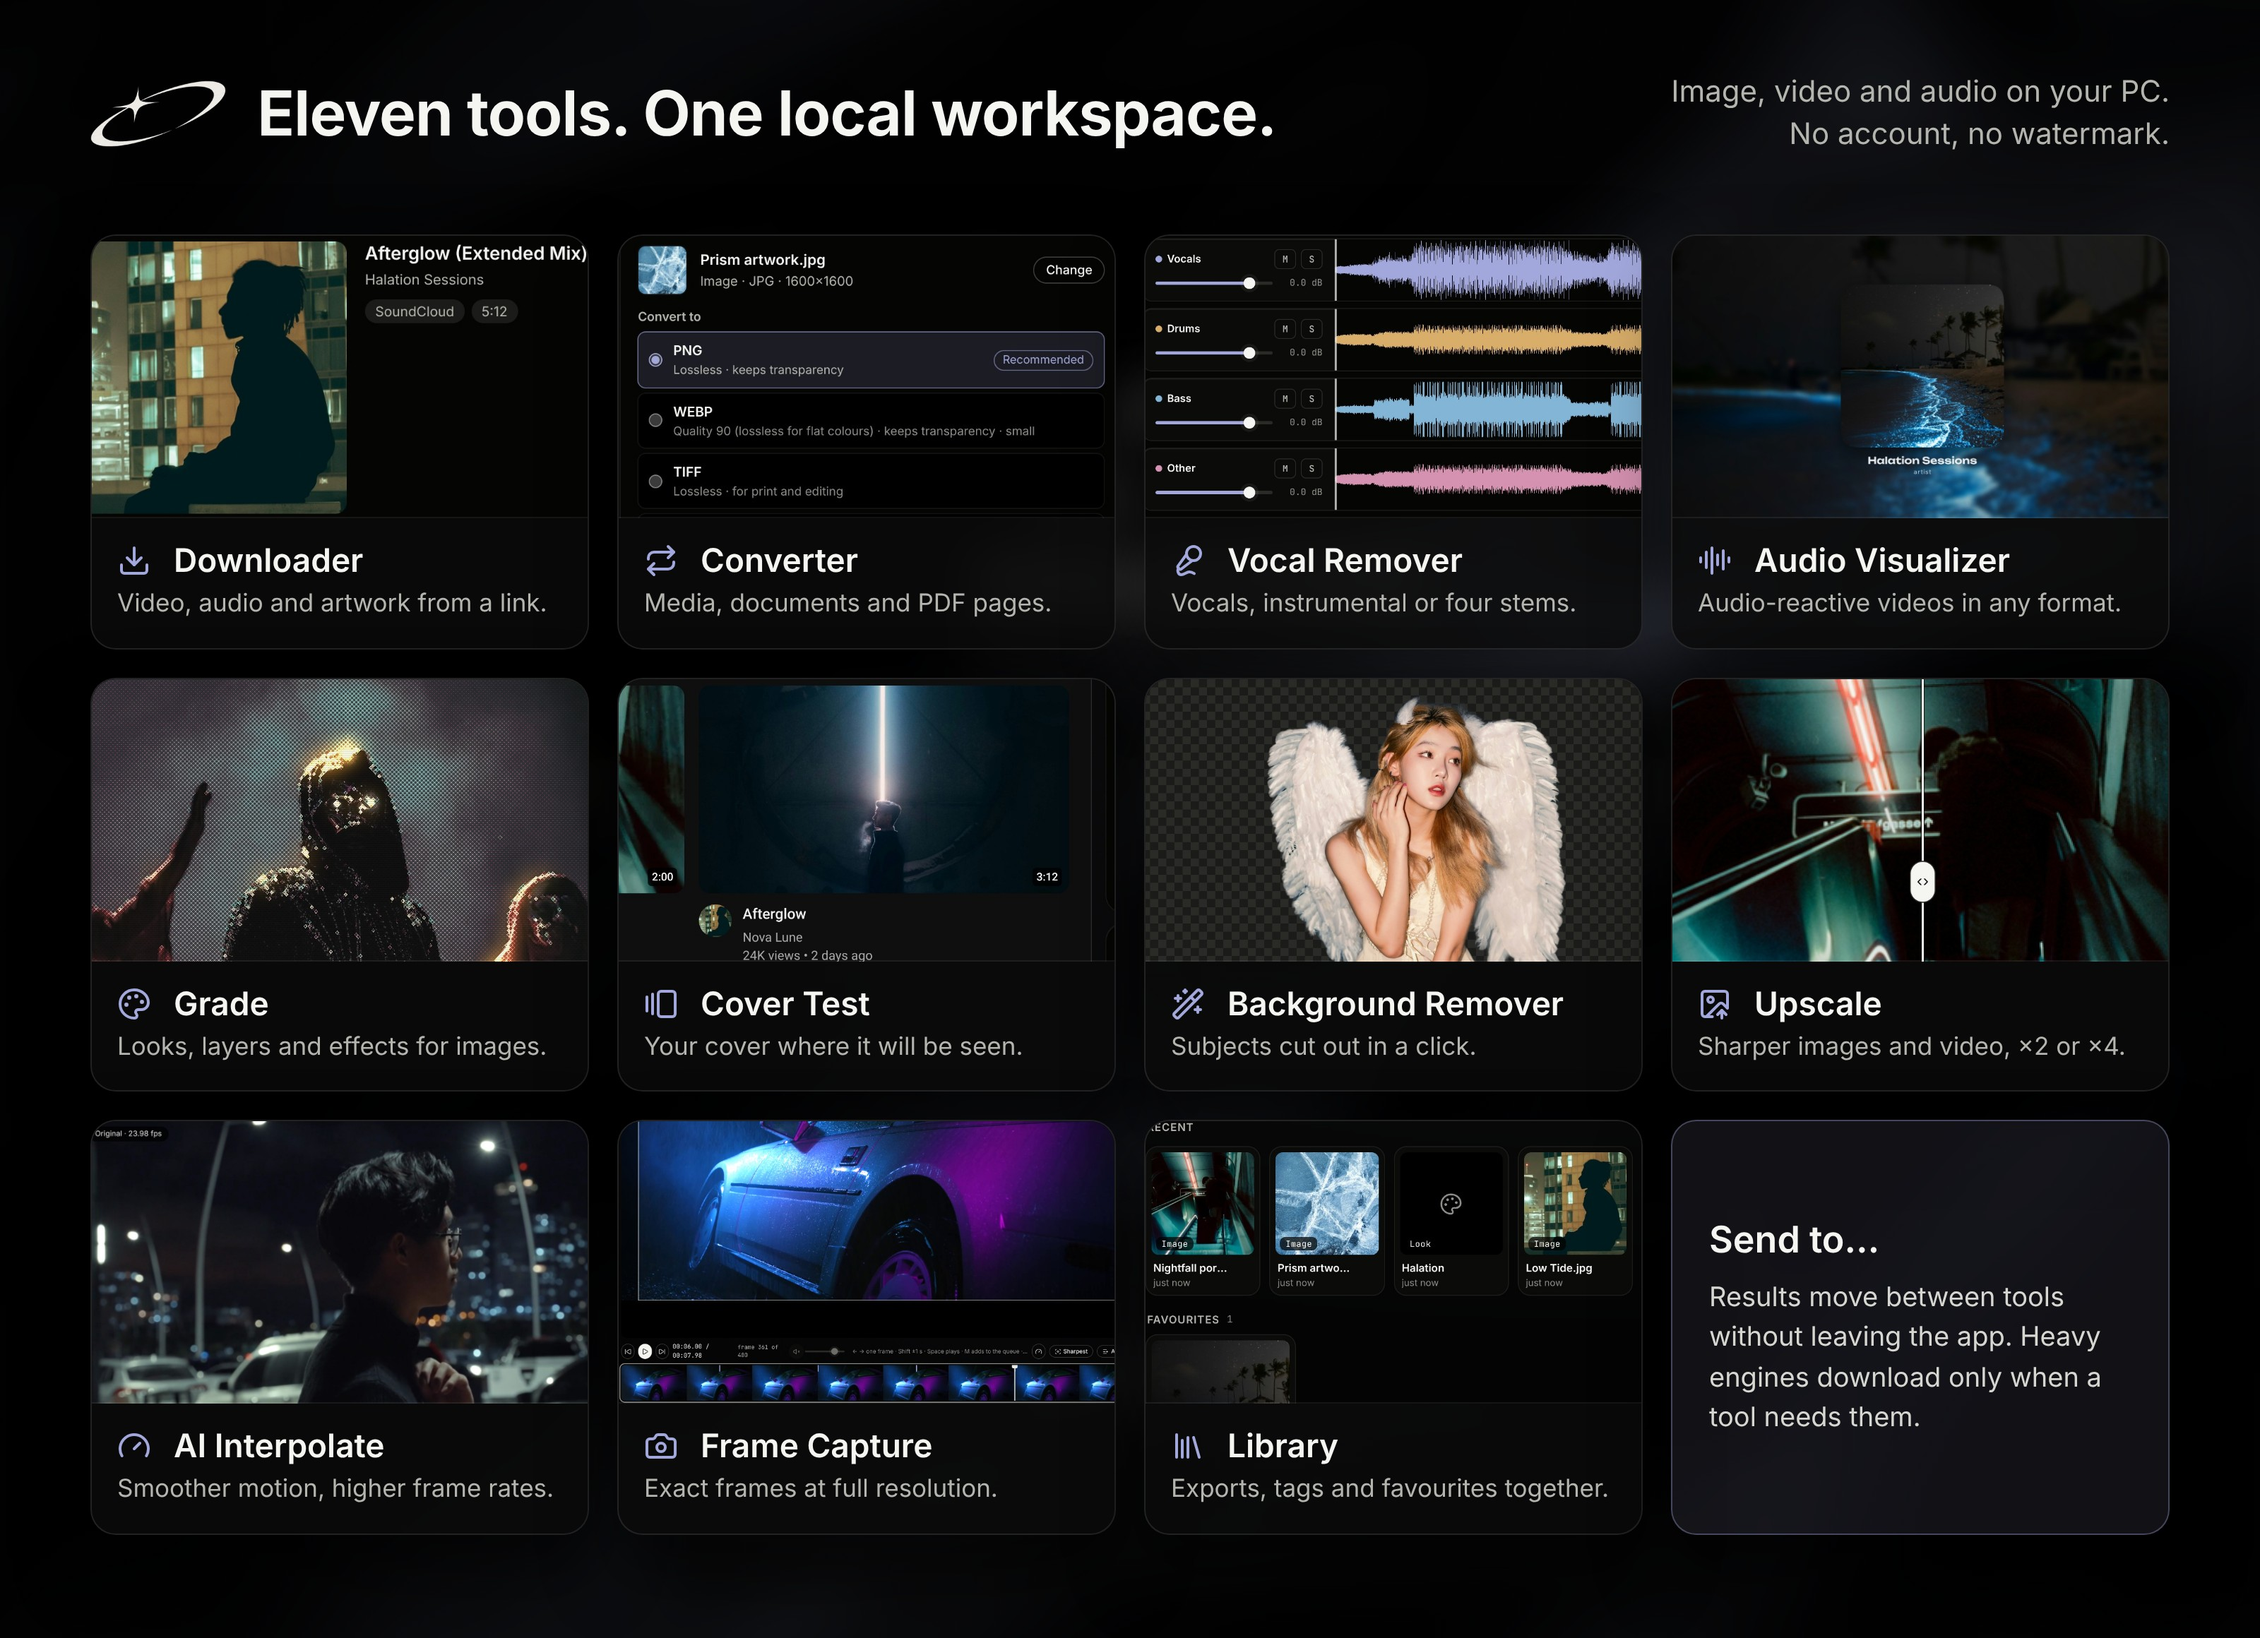
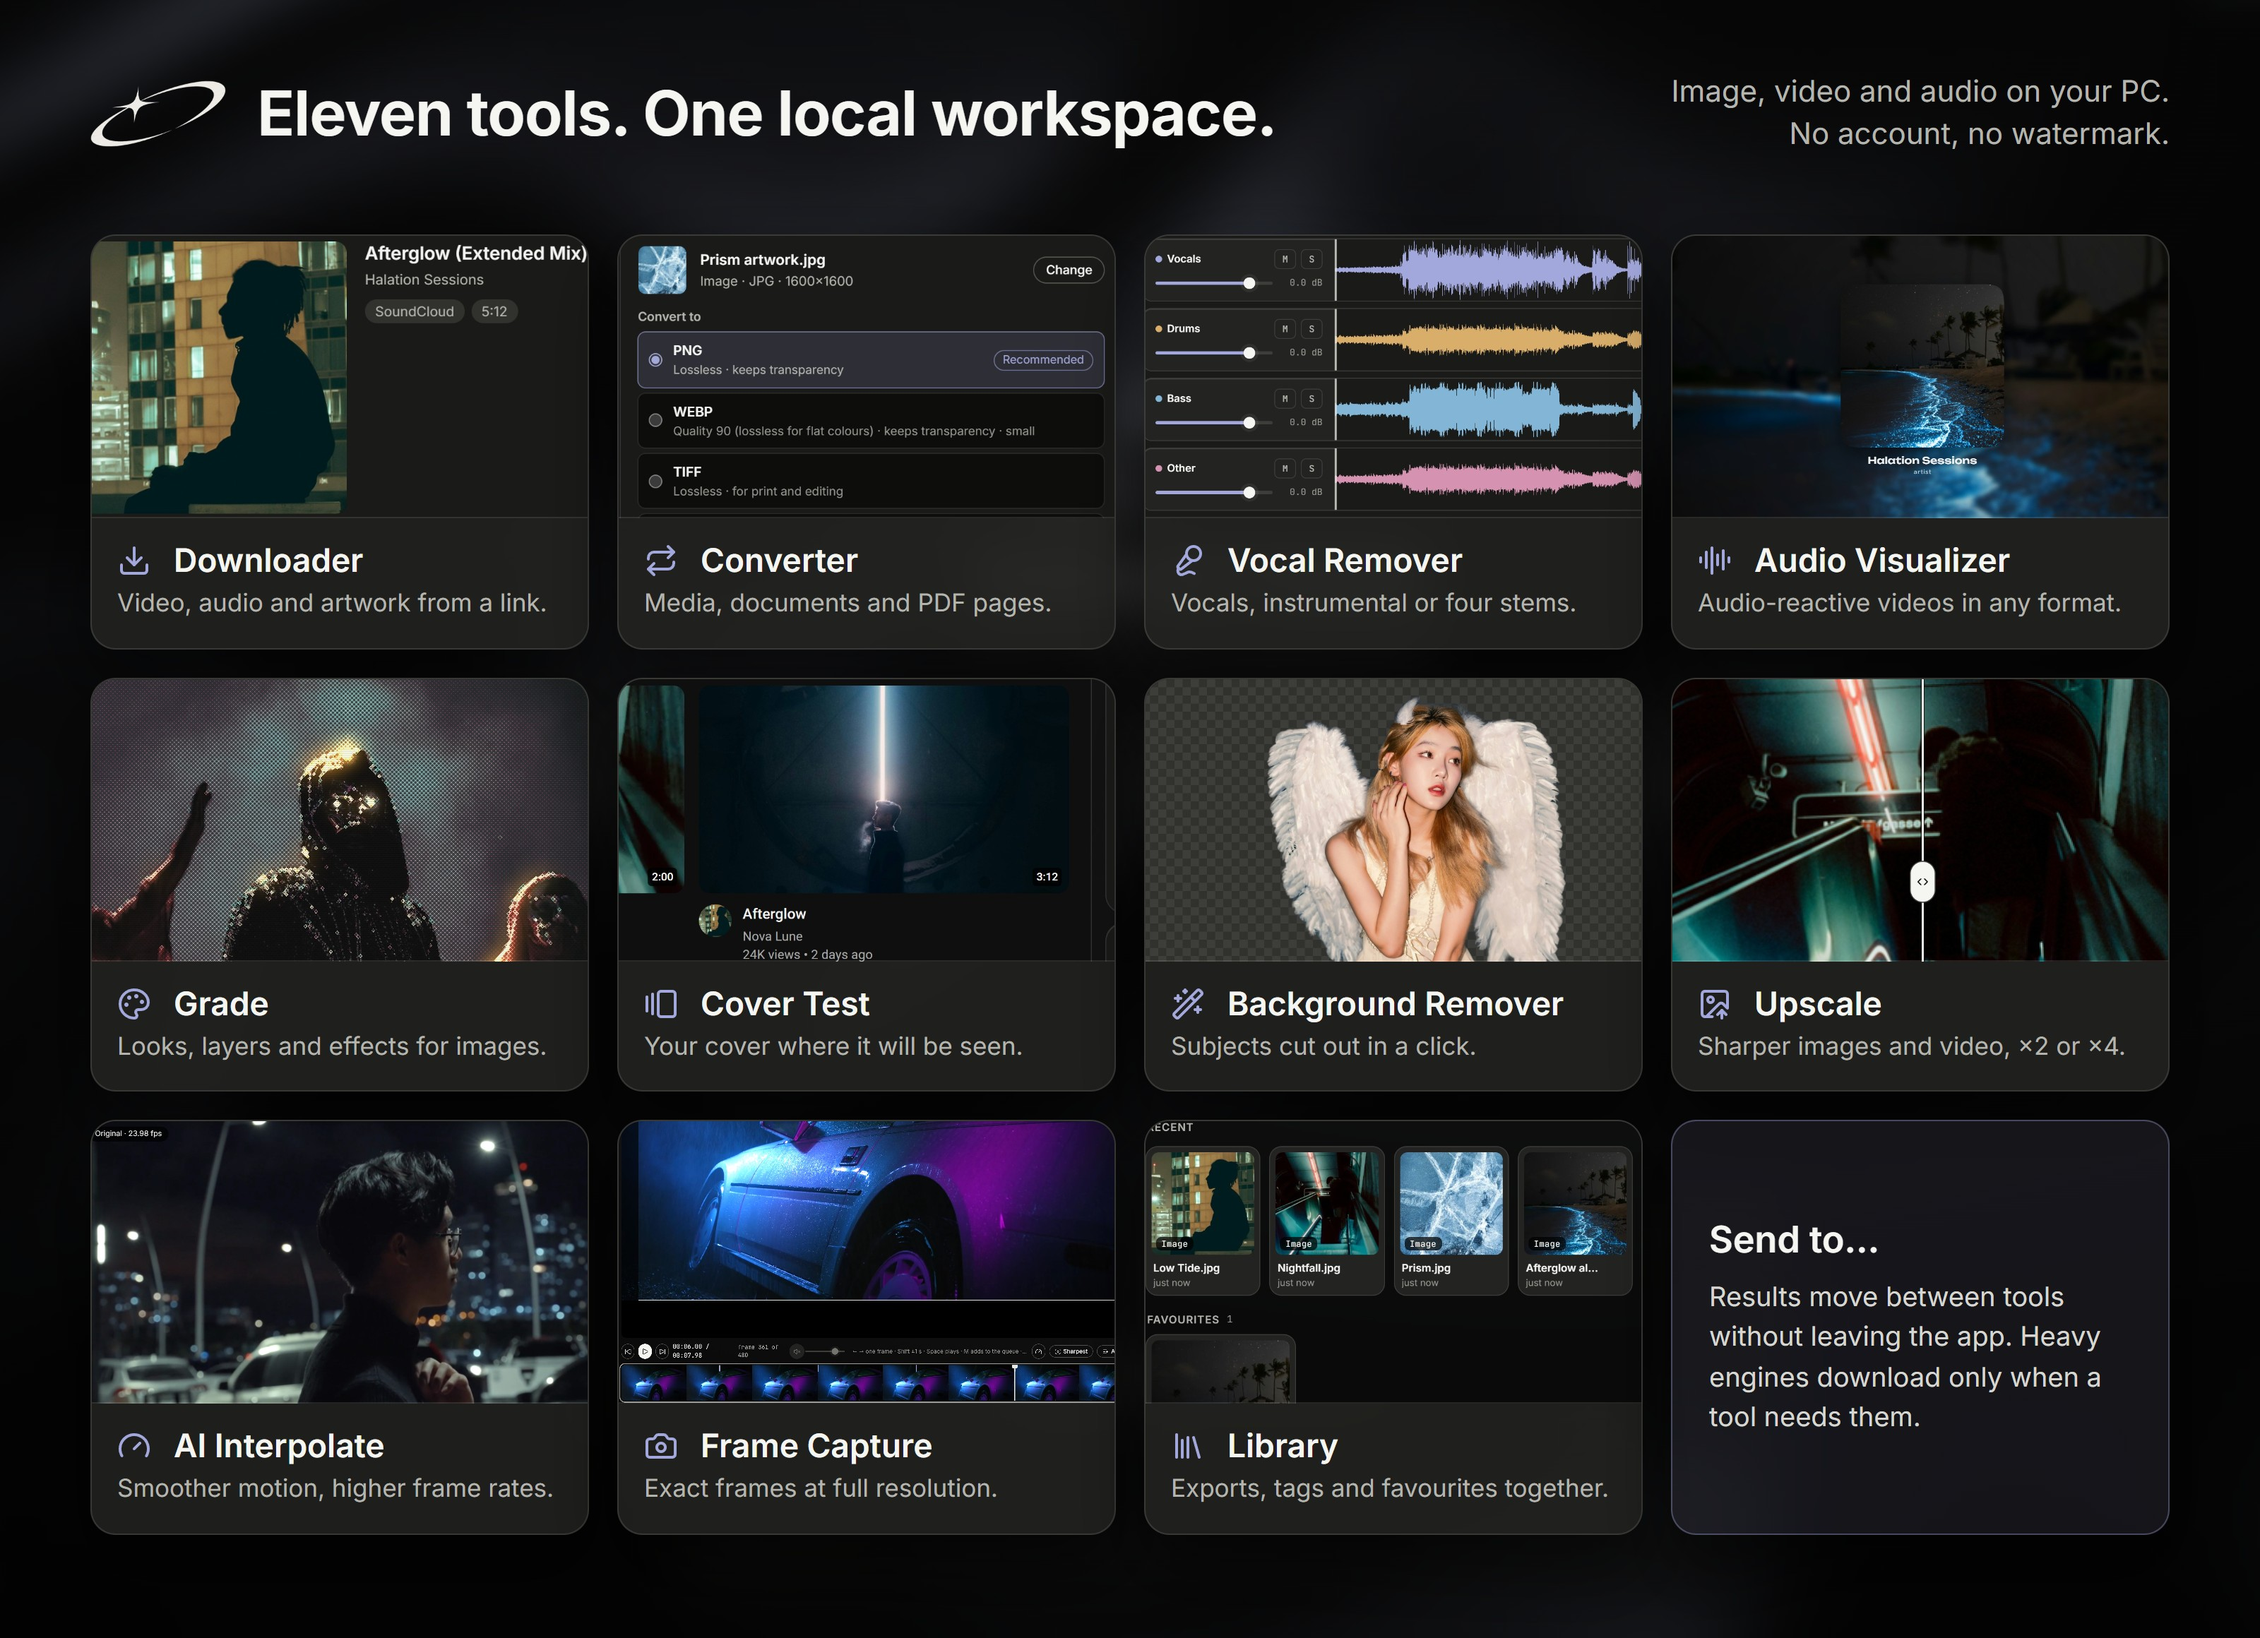
README showcase and promo in the new palette
The showcase tiles and cards take the reworked surfaces (#1a1a19 bubbles, #232321 cards, the .11 border); both images rebuilt from the new captures.

diff --git a/app/scripts/readme-showcase.js b/app/scripts/readme-showcase.js
@@ -43,7 +43,7 @@ const page = (W, H, body, css) => `<!doctype html><meta charset="utf-8"><style>
 header{position:absolute;left:64px;right:64px;top:50px;display:flex;align-items:center;gap:22px}
 header img{width:96px}h1{font-size:44px;font-weight:650;letter-spacing:-.015em}
 header p{margin-left:auto;font-size:21px;color:#b5b5af;text-align:right;line-height:1.45}
-.tile{position:relative;border-radius:18px;overflow:hidden;border:1px solid rgba(255,255,255,.10);background:#050504;box-shadow:0 24px 50px rgba(0,0,0,.5)}
+.tile{position:relative;border-radius:18px;overflow:hidden;border:1px solid rgba(255,255,250,.11);background:#1a1a19;box-shadow:0 24px 50px rgba(0,0,0,.5)}
 .label{display:grid;grid-template-columns:30px 1fr;column-gap:10px;align-items:center}
 .label svg{width:24px;height:24px;stroke:#a3a8dc;fill:none;stroke-width:2;stroke-linecap:round;stroke-linejoin:round}
 .label b{font-weight:600}.label span{grid-column:1/3;margin-top:4px;color:#b5b5af;line-height:1.35}
@@ -98,7 +98,7 @@ function showcase() {
     `<div class="grid">${cards}<div class="tile card more"><b>Send to…</b><span>Results move between tools without leaving the app. Heavy engines download only when a tool needs them.</span></div></div>`;
   return [W, H, page(W, H, body, `
 .grid{position:absolute;left:64px;right:64px;top:166px;display:grid;grid-template-columns:repeat(4,1fr);gap:20px}
-.card{background:rgba(11,11,10,.85)}.thumb{height:200px;border-bottom:1px solid rgba(255,255,255,.07)}
+.card{background:rgba(35,35,33,.85)}.thumb{height:200px;border-bottom:1px solid rgba(255,255,250,.11)}
 .card .label{padding:16px 18px 20px}.card .label b{font-size:23px}.card .label span{font-size:17.5px}
 .more{display:flex;flex-direction:column;justify-content:center;gap:12px;padding:26px;background:rgba(163,168,220,.10);border-color:rgba(163,168,220,.35)}
 .more b{font-size:26px;font-weight:600}.more span{font-size:19px;color:#d7d7d2;line-height:1.5}`)];
